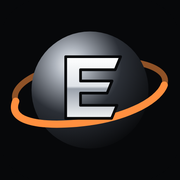
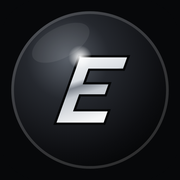
Brand mark: slanted chrome E on a dark chrome globe (no colour ring)
Claude-Session: https://claude.ai/code/session_01CJdMv4zhrtVnUJd4YQXAfS

diff --git a/index.html b/index.html
@@ -32,7 +32,7 @@
   <link rel="preconnect" href="https://fonts.googleapis.com">
   <link rel="preconnect" href="https://fonts.gstatic.com" crossorigin>
   <link rel="stylesheet" href="https://fonts.googleapis.com/css2?family=Inter+Tight:wght@300;400;500;600;700;800&family=Instrument+Serif:ital@0;1&family=JetBrains+Mono:wght@400;500&display=swap">
-  <link rel="stylesheet" href="css/styles.css?v=202611252205">
+  <link rel="stylesheet" href="css/styles.css?v=202611252210">
 
   <script type="application/ld+json">
   {
@@ -47,10 +47,10 @@
   </script>
 
   <!-- Content (edit these files, not the HTML) -->
-  <script src="data/site.config.js?v=202611252205" defer></script>
-  <script src="data/content.js?v=202611252205" defer></script>
-  <script src="data/portfolio.js?v=202611252205" defer></script>
-  <script src="js/main.js?v=202611252205" defer></script>
+  <script src="data/site.config.js?v=202611252210" defer></script>
+  <script src="data/content.js?v=202611252210" defer></script>
+  <script src="data/portfolio.js?v=202611252210" defer></script>
+  <script src="js/main.js?v=202611252210" defer></script>
 </head>
 <body>
   <a class="skip" href="#main">Skip to content</a>
@@ -61,14 +61,16 @@
       <a class="nav__brand" href="#top" aria-label="ELAW STUDIOS — home">
         <svg class="nav__mark" viewBox="0 0 40 40" aria-hidden="true" focusable="false">
           <defs>
-            <radialGradient id="elaw-globe" cx="34%" cy="28%" r="78%"><stop offset="0" stop-color="#f4f6f8"/><stop offset=".18" stop-color="#aeb4bd"/><stop offset=".55" stop-color="#2b2f36"/><stop offset="1" stop-color="#090a0c"/></radialGradient>
-            <linearGradient id="elaw-chrome" x1="0" y1="0" x2="0" y2="1"><stop offset="0" stop-color="#ffffff"/><stop offset=".48" stop-color="#dfe3e8"/><stop offset=".52" stop-color="#9aa1ab"/><stop offset="1" stop-color="#f1f3f5"/></linearGradient>
+            <radialGradient id="elaw-globe" cx="36%" cy="30%" r="75%"><stop offset="0" stop-color="#5a6069"/><stop offset=".35" stop-color="#25282e"/><stop offset=".8" stop-color="#0d0e11"/><stop offset="1" stop-color="#050607"/></radialGradient>
+            <linearGradient id="elaw-chrome" x1="0" y1="0" x2=".35" y2="1"><stop offset="0" stop-color="#ffffff"/><stop offset=".42" stop-color="#d9dde2"/><stop offset=".5" stop-color="#7e848d"/><stop offset=".62" stop-color="#c3c8ce"/><stop offset="1" stop-color="#f6f7f8"/></linearGradient>
+            <radialGradient id="elaw-glint"><stop offset="0" stop-color="#fff" stop-opacity=".95"/><stop offset="1" stop-color="#fff" stop-opacity="0"/></radialGradient>
           </defs>
-          <path d="M3.5 22.5C2 18.6 10 14.6 20 13.6S38 15 36.5 18.9" fill="none" stroke="#ff8f3f" stroke-opacity=".55" stroke-width="1.1" stroke-linecap="round"/>
-          <circle cx="20" cy="20" r="13" fill="url(#elaw-globe)"/>
-          <circle cx="20" cy="20" r="12.6" fill="none" stroke="#ffffff" stroke-opacity=".18" stroke-width=".8"/>
-          <path d="M36.5 18.9C35 22.8 27 26.6 17 27.4S1.9 26.4 3.5 22.5" fill="none" stroke="#ff8f3f" stroke-width="1.3" stroke-linecap="round"/>
-          <path d="M14.6 12.6h12.2l-1.2 2.9h-7.7v2.5h7l-1.1 2.7h-5.9v2.7h8.1l-1.2 2.9H14.6z" fill="url(#elaw-chrome)" stroke="#07080a" stroke-width=".6" stroke-linejoin="round"/>
+          
+          <circle cx="20" cy="20" r="17.5" fill="url(#elaw-globe)"/>
+          <circle cx="20" cy="20" r="17.2" fill="none" stroke="#fff" stroke-opacity=".16" stroke-width=".6"/>
+          <ellipse cx="13.5" cy="9.5" rx="7" ry="3.4" fill="#fff" fill-opacity=".07" transform="rotate(-28 13.5 9.5)"/>
+          <path d="M17.6 12.5 L28.6 12.5 L27.52 15.5 L19.82 15.5 L18.74 18.5 L24.44 18.5 L23.47 21.2 L17.77 21.2 L16.58 24.5 L24.28 24.5 L23.2 27.5 L12.2 27.5Z" fill="url(#elaw-chrome)" stroke="#050607" stroke-width=".5" stroke-linejoin="miter"/>
+          <circle cx="17.8" cy="12.7" r="2.6" fill="url(#elaw-glint)"/>
         </svg>
         <span class="nav__word"><span class="nav__elaw">ELAW</span><span class="nav__studios">STUDIOS</span></span>
       </a>

diff --git a/css/styles.css b/css/styles.css
@@ -129,7 +129,7 @@ p { margin: 0 0 1em; }
 .nav.is-hidden { transform: translateY(-100%); }
 .nav__inner { height: 100%; max-width: var(--wrap); margin: 0 auto; padding: 0 var(--gutter); display: flex; align-items: center; gap: 28px; }
 .nav__brand { display: flex; align-items: center; gap: 12px; flex: none; }
-.nav__mark { width: 38px; height: 38px; flex: none; filter: drop-shadow(0 0 12px rgba(255,143,63,.22)); transition: transform .6s var(--ease); }
+.nav__mark { width: 38px; height: 38px; flex: none; filter: drop-shadow(0 2px 8px rgba(0,0,0,.6)); transition: transform .6s var(--ease); }
 .nav__brand:hover .nav__mark { transform: rotate(-8deg) scale(1.04); }
 .nav__word { display: inline-flex; align-items: baseline; gap: 10px; line-height: 1; }
 .nav__elaw { font-size: 19px; font-weight: 800; letter-spacing: .12em;
